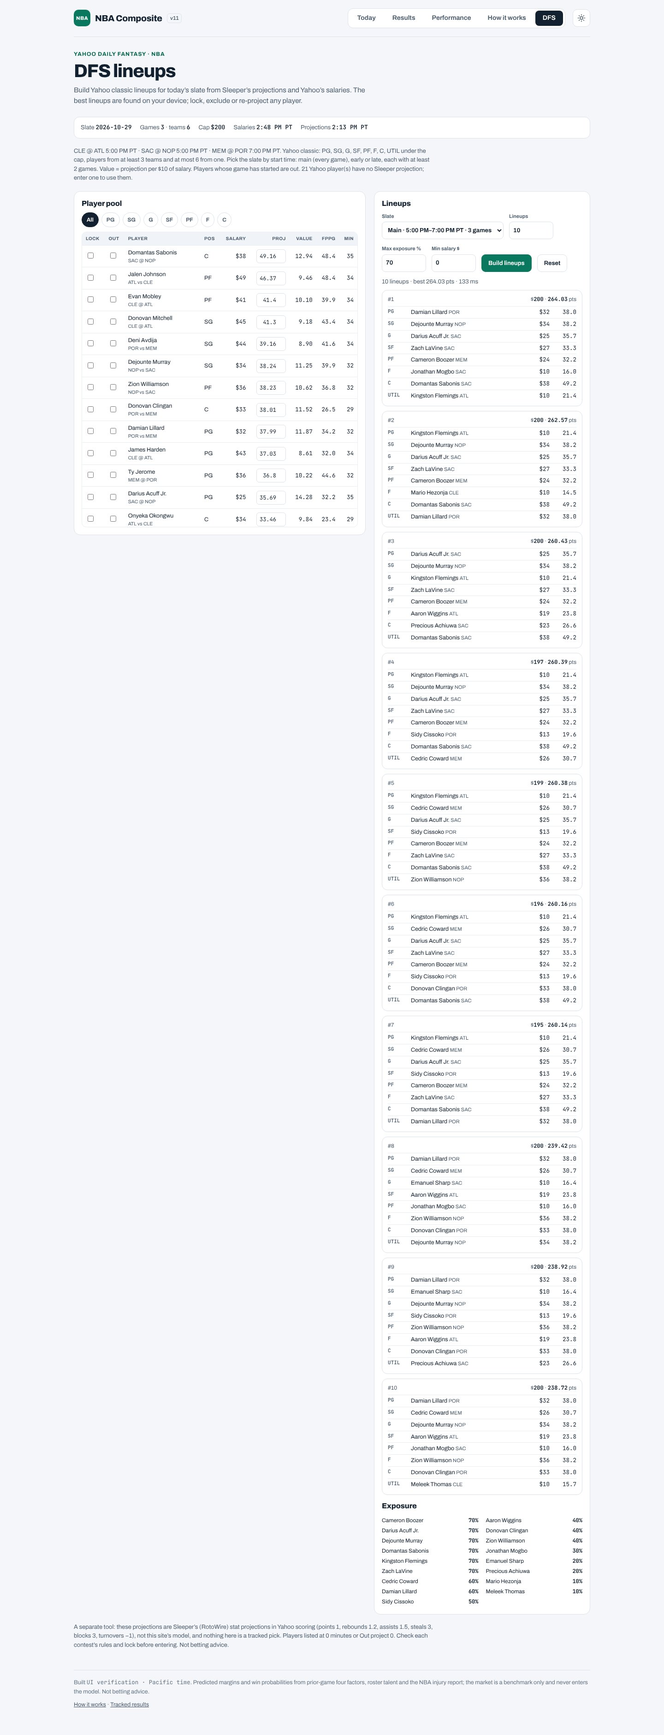
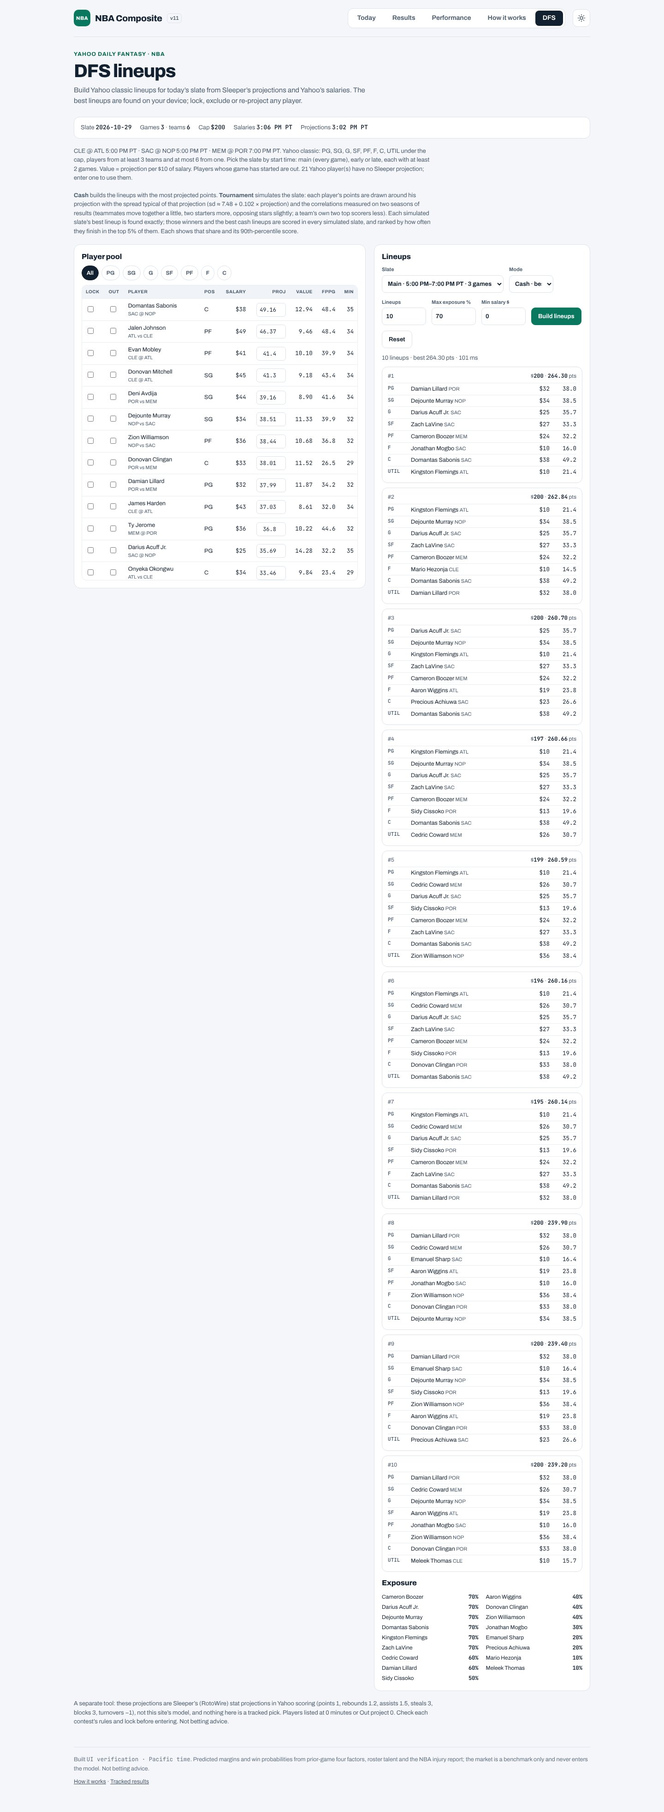
DFS page: tournament mode (correlated variance jitter, solved exactly)
Owner's request: a tournament mode with the measured correlations.

- Each simulated slate draws every player's points around his projection
  with the spread measured on two seasons (sd = 7.48 + 0.102 x projection;
  research/dfs_correlation.py now reports the fit) and a factor model whose
  pair correlations match the measured ones: teammates +0.012, two starters
  +0.08, opposing top-2 scorers +0.038, a team's own two top scorers
  +0.028 (dfs.SIM). Starters = a team's top 5 by Sleeper minutes, stars =
  its top 2 by projection. Seeded, so a slate gives the same lineups.
- The exact solver finds each simulated slate's best lineup. Candidates =
  those winners + the 20 best cash lineups + the cash lineups under the
  exposure cap; ranked by the share of slates in which they finish in the
  candidates' top 5% (exact-best frequency is mostly one-offs: 498 of 500
  winners were distinct), then taken under the exposure cap. Each lineup
  shows that share and its 90th-percentile score.
- Cash stays the default and unchanged; kbest stops as soon as it has N.

Tonight's slate: 500 slates in ~0.8 s; tournament #1 = cash #1 (264.3
proj, top 5% in 25%, p90 306); 3 of 10 lineups differ from cash.

Tests: no variance -> every slate's winner is the cash best and ranks
first at 1.0; seeded; 20,000 draws reproduce each target correlation
within 0.02; lineups legal; ranking ordered. The UI check runs the
tournament mode on the DFS fixture.
[…]

diff --git a/dfs.py b/dfs.py
@@ -56,6 +56,15 @@ YAHOO2BBR = {**market.ESPN2BBR, "PHO": "PHO", "UTH": "UTA", "WAS": "WAS"}
 ET = ZoneInfo("America/New_York")
 # Sleeper statuses that project 0 (GTD / DTD keep their projection).
 OUT_STATUSES = ("out", "ir")
+# Tournament mode (diagnostics/dfs_correlation/RESULTS.txt, 2024-25 and
+# 2025-26 outcomes): a player's sd of Yahoo points is SD_BASE + SD_SLOPE x
+# his projection, and his simulated points share factors whose pair
+# correlations match the measured ones: any two teammates TEAM; two starters
+# TEAM + STARTER; opposing top-2 scorers GAME_STAR; a team's own two top
+# scorers TEAM + STARTER + GAME_STAR - STAR_SPLIT (about +0.03).
+SIM = {"sd_base": 7.48, "sd_slope": 0.102, "team": 0.012, "starter": 0.068,
+       "game_star": 0.038, "star_split": 0.09, "seed": 356}
+STARTERS, STARS = 5, 2   # per team: by Sleeper minutes, by projection
 
 
 def yahoo_points(row):
@@ -209,6 +218,13 @@ def slate(today, yahoo=None, sleeper=None, native=None, now=None):
                             proj=proj, fppg=_num(r.fppg),
                             min=None if minutes is None or not np.isfinite(minutes) else float(minutes),
                             inj=inj, start=r.start_utc, game=r.game_code))
+    # starters (most projected minutes) and stars (highest projections) per team
+    for team in {p["team"] for p in players}:
+        mine = [p for p in players if p["team"] == team and (p["proj"] or 0) > 0]
+        for p in sorted(mine, key=lambda p: -(p["min"] or 0))[:STARTERS]:
+            p["starter"] = True
+        for k, p in enumerate(sorted(mine, key=lambda p: -p["proj"])[:STARS]):
+            p["star"] = k + 1
     snaps = s["snapshot_utc"].astype(str)
     games_out = sorted({(r.game_code, r.away, r.home, r.start_utc) for r in y.itertuples()},
                        key=lambda t: (t[3], t[0]))
@@ -219,7 +235,7 @@ def slate(today, yahoo=None, sleeper=None, native=None, now=None):
                 max_per_team=MAX_PER_TEAM, salaries_utc=max(y["snapshot_utc"]),
                 sleeper_utc=max(snaps) if len(snaps) else None,
                 games=[dict(code=c, away=a, home=h, start=t) for c, a, h, t in games_out],
-                players=players, unmatched=unmatched, scoring=SCORING,
+                players=players, unmatched=unmatched, scoring=SCORING, sim=SIM,
                 built_utc=ledger.fmt_utc(now))
 
 
@@ -309,6 +325,9 @@ def body(data, ui):
             "to use them." if data["unmatched"] else "")
     controls = ("<div class='dfs-controls'>"
                 "<label>Slate<select id='dfs-slate' aria-label='Slate by start time'></select></label>"
+                "<label>Mode<select id='dfs-mode' aria-label='Contest type'><option value='cash'>Cash · best projection</option>"
+                "<option value='gpp'>Tournament · simulated</option></select></label>"
+                "<label id='dfs-sims-l' hidden>Sims<input type='number' id='dfs-sims' min='100' max='2000' step='100' value='500'></label>"
                 "<label>Lineups<input type='number' id='dfs-n' min='1' max='20' value='10'></label>"
                 "<label>Max exposure %<input type='number' id='dfs-exp' min='10' max='100' step='5' value='70'></label>"
                 f"<label>Min salary $<input type='number' id='dfs-min' min='0' max='{data['cap']:g}' value='0'></label>"
@@ -330,6 +349,14 @@ def body(data, ui):
             f"{MAX_PER_TEAM} from one. Pick the slate by start time: main (every game), early or "
             f"late, each with at least 2 games. Value = projection per $10 of salary. Players "
             f"whose game has started are out.{miss}</p>"
+            "<p class='public-note'><b>Cash</b> builds the lineups with the most projected points. "
+            "<b>Tournament</b> simulates the slate: each player’s points are drawn around his projection "
+            f"with the spread typical of that projection (sd ≈ {SIM['sd_base']:g} + {SIM['sd_slope']:g} × "
+            "projection) and the correlations measured on two seasons of results (teammates move together "
+            "a little, two starters more, opposing stars slightly; a team’s own two top scorers less). "
+            "Each simulated slate’s best lineup is found exactly; those winners and the best cash "
+            "lineups are scored in every simulated slate, and ranked by how often they finish in the top "
+            "5% of them. Each shows that share and its 90th-percentile score.</p>"
             "<noscript><p class='public-note'>The optimizer needs JavaScript.</p></noscript>"
             "<div class='dfs-grid'>" + pool + out + "</div>" + note
             + f"<script type='application/json' id='dfs-data'>{payload}</script>"
@@ -395,13 +422,51 @@ Heap.prototype.pop=function(){var a=this.a,top=a[0],last=a.pop();if(a.length){a[
 // its parent's lineup and forces those before it. accept(sol) keeps one.
 function kbest(P,cap,minSal,lock,N,accept,limit){var h=new Heap(),out=[],seen=0,root=solve(P,cap,minSal,lock,{});
  if(!root)return {lineups:out,seen:0};h.push({fin:lock,fout:{},sol:root});
- while(h.a.length&&out.length<N&&seen<limit){var nd=h.pop();seen++;if(accept(nd.sol))out.push(nd.sol);
+ while(h.a.length&&out.length<N&&seen<limit){var nd=h.pop();seen++;if(accept(nd.sol)){out.push(nd.sol);if(out.length>=N)break;}
   var fin=Object.assign({},nd.fin);nd.sol.ids.forEach(function(id){if(nd.fin[id])return;var fo=Object.assign({},nd.fout);fo[id]=1;
    var s=solve(P,cap,minSal,fin,fo);if(s)h.push({fin:Object.assign({},fin),fout:fo,sol:s});fin[id]=1;});}
  return {lineups:out,seen:seen};}
 function teamsOk(ids,team,minTeams,maxPer){var c={};ids.forEach(function(i){var t=team[i];c[t]=(c[t]||0)+1;});var ks=Object.keys(c);
  return ks.length>=minTeams&&ks.every(function(k){return c[k]<=maxPer;});}
-return {solve:solve,kbest:kbest,teamsOk:teamsOk};
+// Tournament mode. One simulated slate: each player's points are his
+// projection plus sd x z, floored at 0, where z = sqrt(team) T[team]
+// + sqrt(starter) U[team] (starters) + sqrt(game_star) G[game] (top-2
+// scorers) +/- sqrt(star_split) Q[team] (+ for the top scorer, - for the
+// second) + an independent remainder: a factor model, so every draw is a
+// valid correlated normal.
+function rng(seed){var a=seed>>>0;return function(){a=(a+0x6D2B79F5)>>>0;var t=a;t=Math.imul(t^(t>>>15),t|1);
+ t^=t+Math.imul(t^(t>>>7),t|61);return ((t^(t>>>14))>>>0)/4294967296;};}
+function gauss(r){var u=0,v=0;while(u===0)u=r();while(v===0)v=r();return Math.sqrt(-2*Math.log(u))*Math.cos(2*Math.PI*v);}
+function draw(P,M,r){var f={},out=new Float64Array(P.length);function F(k){if(!(k in f))f[k]=gauss(r);return f[k];}
+ for(var i=0;i<P.length;i++){var p=P[i],w=M.team,z=Math.sqrt(M.team)*F('T'+p.team);
+  if(p.starter){z+=Math.sqrt(M.starter)*F('U'+p.team);w+=M.starter;}
+  if(p.star){z+=Math.sqrt(M.game_star)*F('G'+p.game)+(p.star===1?1:-1)*Math.sqrt(M.star_split)*F('Q'+p.team);w+=M.game_star+M.star_split;}
+  z+=Math.sqrt(Math.max(0,1-w))*gauss(r);out[i]=Math.max(0,p.v+(M.sd_base+M.sd_slope*p.v)*z);}
+ return out;}
+// S simulated slates, each solved exactly (ok(ids): the team rules). Returns
+// the distinct winning lineups and every draw, so any lineup can be scored
+// in each slate (rank).
+function simulate(P,cap,minSal,lock,M,S,seed,ok){var r=rng(seed),cnt={},ids={},vals=new Float64Array(S*P.length);
+ for(var s=0;s<S;s++){var x=draw(P,M,r),Q=P.map(function(p,i){return {id:p.id,pos:p.pos,sal:p.sal,v:x[i]};});vals.set(x,s*P.length);
+  var b=kbest(Q,cap,minSal,lock,1,function(sol){return ok(sol.ids);},200).lineups[0];if(!b)continue;
+  var key=b.ids.slice().sort().join();cnt[key]=(cnt[key]||0)+1;ids[key]=b.ids;}
+ var idx={};P.forEach(function(p,i){idx[p.id]=i;});
+ var mean=function(l){return l.reduce(function(t,id){return t+P[idx[id]].v;},0);};
+ var cands=Object.keys(cnt).map(function(k){return {ids:ids[k],n:cnt[k],v:mean(ids[k]),sal:ids[k].reduce(function(t,id){return t+P[idx[id]].sal;},0)};})
+  .sort(function(a,b){return b.n-a.n||b.v-a.v;});
+ function scores(l){var out=new Float64Array(S);for(var s=0;s<S;s++){var t=0;for(var j=0;j<l.length;j++)t+=vals[s*P.length+idx[l[j]]];out[s]=t;}return out;}
+ return {cands:cands,sims:S,scores:scores};}
+// Tournament ranking: in each simulated slate, the candidates (the winners
+// plus any added) scoring in the top `frac` of all candidates; a lineup's
+// share of slates in that group (c.top) and its 90th-percentile score
+// (c.p90). Smoother than "how often exactly best", which is mostly one-offs.
+function rank(cands,res,frac){var m=cands.length,k=Math.max(1,Math.ceil(frac*m)),S=res.sims,hits=new Int32Array(m),
+  sc=cands.map(function(c){return res.scores(c.ids);}),row=new Float64Array(m);
+ for(var s=0;s<S;s++){for(var c=0;c<m;c++)row[c]=sc[c][s];var thr=Array.from(row).sort(function(a,b){return b-a;})[k-1];
+  for(c=0;c<m;c++)if(row[c]>=thr)hits[c]++;}
+ cands.forEach(function(c,i){c.top=hits[i]/S;var srt=Array.from(sc[i]).sort(function(a,b){return a-b;});c.p90=srt[Math.floor(.9*(S-1))];});
+ return cands.sort(function(a,b){return b.top-a.top||b.v-a.v;});}
+return {solve:solve,kbest:kbest,teamsOk:teamsOk,rng:rng,draw:draw,simulate:simulate,rank:rank};
 })();
 """
 
@@ -428,7 +493,7 @@ function esc(s){return String(s).replace(/[&<>"']/g,function(c){return {'&':'&am
 function proj(p){return st.proj[p.id]!==undefined?st.proj[p.id]:p.proj;}
 function started(p){return Date.parse(p.start)<=Date.now();}
 function pool(){return D.players.filter(function(p){var v=proj(p);return inSlate(p)&&!st.out[p.id]&&!started(p)&&v!==null&&v!==undefined&&(v>0||st.lock[p.id]);})
- .map(function(p){return {id:p.id,pos:p.pos,sal:p.sal,v:proj(p)};});}
+ .map(function(p){return {id:p.id,pos:p.pos,sal:p.sal,v:proj(p),team:p.team,game:p.game,starter:!!p.starter,star:p.star||0};});}
 function slots(ids,byId){var ps=ids.map(function(i){return byId[i];}),used={},at={};
  function take(ok){for(var i=0;i<ps.length;i++){if(!used[i]&&ok(ps[i])){used[i]=1;return ps[i];}}return null;}
  [['PG',function(p){return p.pos==='PG';}],['SG',function(p){return p.pos==='SG';}],['SF',function(p){return p.pos==='SF';}],
@@ -437,21 +502,35 @@ function slots(ids,byId){var ps=ids.map(function(i){return byId[i];}),used={},at
  return D.slots.map(function(s){return [s,at[s]];});}
 function run(){var btn=$('dfs-go');btn.disabled=true;$('dfs-msg').textContent='Building lineups…';
  setTimeout(function(){try{build();}catch(e){$('dfs-msg').textContent='The optimizer failed: '+e.message;}btn.disabled=false;},20);}
-// N lineups, each the best legal one not yet built from the players still
-// under their exposure cap (locked players are exempt): a capped player
-// leaves the pool, so the search never wades through lineups built on him.
-function build(){var all=pool(),byId={},team={};D.players.forEach(function(p){byId[p.id]=p;team[p.id]=p.team;});
- var N=Math.max(1,Math.min(20,+$('dfs-n').value||10)),exp=Math.max(10,Math.min(100,+$('dfs-exp').value||100)),
-  minSal=Math.max(0,+$('dfs-min').value||0),capN=Math.max(1,Math.floor(N*exp/100+1e-9)),cnt={},lock={},made={},L=[];
- Object.keys(st.lock).forEach(function(id){if(st.lock[id]&&byId[id]&&!started(byId[id])&&inSlate(byId[id]))lock[id]=1;});
- var t0=performance.now();
+// Cash: N lineups, each the best legal one not yet built from the players
+// still under their exposure cap (locked players are exempt): a capped
+// player leaves the pool, so the search never wades through lineups on him.
+function cash(all,team,N,capN,minSal,lock){var cnt={},made={},L=[];
  while(L.length<N){var P=all.filter(function(p){return lock[p.id]||(cnt[p.id]||0)<capN;});
   var r=DFS.kbest(P,D.cap,minSal,lock,1,function(sol){return DFS.teamsOk(sol.ids,team,D.min_teams,D.max_per_team)&&!made[sol.ids.slice().sort().join()];},400);
   if(!r.lineups.length)break;var l=r.lineups[0];made[l.ids.slice().sort().join()]=1;L.push(l);l.ids.forEach(function(i){cnt[i]=(cnt[i]||0)+1;});}
- var el=$('dfs-out');
+ return {L:L,cnt:cnt};}
+// Tournament: candidates are the simulated slates' winners, the 20 best cash
+// lineups and the cash lineups under the exposure cap (strong lineups
+// without the capped players), ranked by their share of slates in the
+// candidates' top 5%, kept while every non-locked player stays under the cap.
+function gpp(all,team,N,capN,minSal,lock){var S=Math.max(100,Math.min(2000,+$('dfs-sims').value||500)),cnt={},L=[];
+ var ok=function(ids){return DFS.teamsOk(ids,team,D.min_teams,D.max_per_team);};
+ var res=DFS.simulate(all,D.cap,minSal,lock,D.sim,S,D.sim.seed,ok),seen={},cands=[];
+ res.cands.concat(DFS.kbest(all,D.cap,minSal,lock,20,function(sol){return ok(sol.ids);},400).lineups,
+  cash(all,team,N,capN,minSal,lock).L).forEach(function(c){
+  var k=c.ids.slice().sort().join();if(!seen[k]){seen[k]=1;cands.push({ids:c.ids,v:c.v,sal:c.sal});}});
+ DFS.rank(cands,res,.05).forEach(function(c){if(L.length>=N||!c.ids.every(function(i){return lock[i]||(cnt[i]||0)<capN;}))return;
+  L.push(c);c.ids.forEach(function(i){cnt[i]=(cnt[i]||0)+1;});});
+ return {L:L,cnt:cnt,note:S+' simulated slates · '+cands.length+' candidate lineups'};}
+function build(){var all=pool(),byId={},team={};D.players.forEach(function(p){byId[p.id]=p;team[p.id]=p.team;});
+ var N=Math.max(1,Math.min(20,+$('dfs-n').value||10)),exp=Math.max(10,Math.min(100,+$('dfs-exp').value||100)),
+  minSal=Math.max(0,+$('dfs-min').value||0),capN=Math.max(1,Math.floor(N*exp/100+1e-9)),lock={},t0=performance.now();
+ Object.keys(st.lock).forEach(function(id){if(st.lock[id]&&byId[id]&&!started(byId[id])&&inSlate(byId[id]))lock[id]=1;});
+ var R=($('dfs-mode').value==='gpp'?gpp:cash)(all,team,N,capN,minSal,lock),L=R.L,cnt=R.cnt,el=$('dfs-out');
  if(!L.length){el.innerHTML='';$('dfs-exposure').innerHTML='';$('dfs-msg').textContent='No legal lineup: check the locks, exclusions and minimum salary.';return;}
- $('dfs-msg').textContent=L.length+' lineup'+(L.length>1?'s':'')+' · best '+L[0].v.toFixed(2)+' pts'+(L.length<N?' · fewer than asked under these caps':'')+' · '+Math.round(performance.now()-t0)+' ms';
- el.innerHTML=L.map(function(l,i){return "<article class='dfs-lineup'><header><span>#"+(i+1)+"</span><span>$<b>"+l.sal+"</b> · <b>"+l.v.toFixed(2)+"</b> pts</span></header><ol>"+
+ $('dfs-msg').textContent=L.length+' lineup'+(L.length>1?'s':'')+(R.note?' · '+R.note:' · best '+L[0].v.toFixed(2)+' pts')+(L.length<N?' · fewer than asked under these caps':'')+' · '+Math.round(performance.now()-t0)+' ms';
+ el.innerHTML=L.map(function(l,i){return "<article class='dfs-lineup'><header><span>#"+(i+1)+(l.top!==undefined?" · top 5% in <b>"+(100*l.top).toFixed(0)+"%</b> · p90 <b>"+l.p90.toFixed(1)+"</b>":"")+"</span><span>$<b>"+l.sal+"</b> · <b>"+l.v.toFixed(2)+"</b> pts</span></header><ol>"+
   slots(l.ids,byId).map(function(x){var p=x[1];return "<li><span>"+x[0]+"</span><span>"+esc(p.name)+" <em>"+esc(p.team)+"</em></span><span class='n'>$"+p.sal+"</span><span class='n'>"+proj(p).toFixed(1)+"</span></li>";}).join('')+"</ol></article>";}).join('');
  var ex=Object.keys(cnt).sort(function(a,b){return cnt[b]-cnt[a]||byId[a].name.localeCompare(byId[b].name);});
  $('dfs-exposure').innerHTML=ex.map(function(id){return "<li><span>"+esc(byId[id].name)+"</span><b class='mono'>"+Math.round(100*cnt[id]/L.length)+"%</b></li>";}).join('');}
@@ -473,6 +552,7 @@ var SL=slates(),sel=$('dfs-slate');st.slate=SL[0]||null;
 sel.innerHTML=SL.map(function(o){return "<option value='"+o.key+"'>"+esc(o.label)+"</option>";}).join('')||"<option>No slate with 2+ games</option>";
 sel.disabled=SL.length<2;
 sel.addEventListener('change',function(){st.slate=SL.filter(function(o){return o.key===sel.value;})[0]||null;draw();run();});
+$('dfs-mode').addEventListener('change',function(){$('dfs-sims-l').hidden=this.value!=='gpp';run();});
 $('dfs-go').addEventListener('click',run);
 $('dfs-reset').addEventListener('click',function(){st.lock={};st.out={};st.proj={};draw();run();});
 draw();run();

diff --git a/tests/test_dfs.py b/tests/test_dfs.py
@@ -204,3 +204,93 @@ def test_validation_checks_the_yahoo_snapshot(tmp_path):
     bad.to_csv(path, index=False)
     assert any("salary" in e for e in v.check_yahoo(str(path)))
     assert v.check_yahoo(str(tmp_path / "missing.csv")) == []
+
+
+# ------------------------------------------------------- tournament mode ---
+def _node_js(body, payload):
+    script = dfs.SOLVER_JS + "\nvar I=JSON.parse(require('fs').readFileSync(0,'utf8'));\n" + body
+    res = subprocess.run([NODE, "-e", script], input=json.dumps(payload), capture_output=True,
+                         text=True, timeout=180, check=True)
+    return json.loads(res.stdout)
+
+
+def _sim_pool(seed=5):
+    rng = np.random.default_rng(seed)
+    pool = []
+    for g, teams in enumerate((("A", "B"), ("C", "D"))):
+        for t in teams:
+            for k, pos in enumerate(["PG", "SG", "SF", "PF", "C", "PG", "SF", "C"]):
+                pool.append(dict(id=f"{t}{k}", pos=pos, sal=int(rng.integers(10, 40)),
+                                 v=round(float(rng.uniform(15, 45)), 2), team=t, game=f"g{g}",
+                                 starter=k < 5, star=(k + 1) if k < 2 else 0))
+    return pool
+
+
+@pytest.mark.skipif(NODE is None, reason="node is not installed")
+def test_tournament_without_variance_is_the_cash_best_and_is_seeded():
+    pool = _sim_pool()
+    flat = dict(dfs.SIM, sd_base=0.0, sd_slope=0.0)
+    out = _node_js("""
+var team={};I.pool.forEach(function(p){team[p.id]=p.team;});var ok=function(ids){return DFS.teamsOk(ids,team,3,6);};
+var best=DFS.kbest(I.pool,200,0,{},1,function(s){return ok(s.ids);},200).lineups[0];
+var flat=DFS.simulate(I.pool,200,0,{},I.flat,50,7,ok),a=DFS.simulate(I.pool,200,0,{},I.sim,200,7,ok),b=DFS.simulate(I.pool,200,0,{},I.sim,200,7,ok);
+process.stdout.write(JSON.stringify({best:best.ids.slice().sort(),flat:flat.cands.map(function(c){return [c.ids.slice().sort(),c.n];}),
+ a:a.cands.map(function(c){return c.n;}),b:b.cands.map(function(c){return c.n;}),na:a.cands.length,
+ legal:a.cands.every(function(c){return ok(c.ids)&&c.sal<=200&&new Set(c.ids).size===8;})}));""",
+        dict(pool=pool, flat=flat, sim=dfs.SIM))
+    assert out["flat"] == [[out["best"], 50]]            # every simulated slate: the cash best
+    assert out["a"] == out["b"] and out["na"] > 5         # seeded, and it diversifies
+    assert sum(out["a"]) == 200 and out["legal"]
+
+
+@pytest.mark.skipif(NODE is None, reason="node is not installed")
+def test_simulated_points_carry_the_measured_correlations():
+    pool = [dict(p, v=200.0) for p in _sim_pool()]       # far from the floor at 0
+    zs = _node_js("""
+var r=DFS.rng(11),Z=[];for(var s=0;s<20000;s++){var x=DFS.draw(I.pool,I.sim,r);
+ Z.push(Array.from(x).map(function(v,i){var p=I.pool[i];return (v-p.v)/(I.sim.sd_base+I.sim.sd_slope*p.v);}));}
+process.stdout.write(JSON.stringify(Z));""", dict(pool=pool, sim=dfs.SIM))
+    z = np.array(zs)
+    c = np.corrcoef(z.T)
+    ix = {p["id"]: i for i, p in enumerate(pool)}
+    m = dfs.SIM
+    pairs = {("A2", "A3"): m["team"] + m["starter"],               # two starters
+             ("A5", "A6"): m["team"],                              # two bench players
+             ("A0", "A1"): m["team"] + m["starter"] + m["game_star"] - m["star_split"],  # own stars
+             ("A0", "B0"): m["game_star"], ("A0", "B1"): m["game_star"],             # opposing stars
+             ("A2", "B2"): 0.0, ("A0", "C0"): 0.0}                 # opponents; other game
+    for (a, b), want in pairs.items():
+        assert c[ix[a], ix[b]] == pytest.approx(want, abs=0.02), (a, b)
+    assert np.allclose(z.std(0), 1, atol=0.03)
+
+
+@pytest.mark.skipif(NODE is None, reason="node is not installed")
+def test_sim_model_and_flags_reach_the_page():
+    yahoo = pd.DataFrame(dfs.parse_feed(_feed([_yp("p1", "Zion Williamson", "NO", "PF", 36),
+                                               _yp("p2", "Other Guy", "NO", "C", 20)]), now=NOW),
+                         columns=dfs.YAHOO_COLUMNS).astype(str)
+    line = dict(minutes="32", pts="20", reb="5", ast="3", stl="1", blk="1", to="2", tpm="1")
+    sl = _sleeper([dict(kind="pre", team="NOP", sleeper_id="1", name="Zion Williamson", **line),
+                   dict(kind="pre", team="NOP", sleeper_id="2", name="Other Guy", **dict(line, pts="5"))])
+    d = dfs.slate("2026-10-29", yahoo=yahoo, sleeper=sl, native=_native(), now=NOW)
+    by = {p["name"]: p for p in d["players"]}
+    assert d["sim"] == dfs.SIM and by["Zion Williamson"]["star"] == 1 and by["Other Guy"]["star"] == 2
+    assert by["Zion Williamson"]["starter"] and by["Other Guy"]["starter"]
+
+
+@pytest.mark.skipif(NODE is None, reason="node is not installed")
+def test_tournament_rank_puts_the_lineups_that_often_score_highest_first():
+    pool = _sim_pool()
+    flat = dict(dfs.SIM, sd_base=0.0, sd_slope=0.0)
+    out = _node_js("""
+var team={};I.pool.forEach(function(p){team[p.id]=p.team;});var ok=function(ids){return DFS.teamsOk(ids,team,3,6);};
+var top=DFS.kbest(I.pool,200,0,{},20,function(s){return ok(s.ids);},400).lineups;
+var flat=DFS.rank(top.map(function(c){return {ids:c.ids,v:c.v,sal:c.sal};}),DFS.simulate(I.pool,200,0,{},I.flat,40,3,ok),.05);
+var sim=DFS.rank(top.map(function(c){return {ids:c.ids,v:c.v,sal:c.sal};}),DFS.simulate(I.pool,200,0,{},I.sim,300,3,ok),.25);
+process.stdout.write(JSON.stringify({best:top[0].ids.slice().sort(),flat:flat.map(function(c){return [c.ids.slice().sort(),c.top];}),
+ sim:sim.map(function(c){return [c.top,c.p90,c.v];})}));""", dict(pool=pool, flat=flat, sim=dfs.SIM))
+    assert out["flat"][0] == [out["best"], 1.0]          # no variance: the best always tops
+    assert all(t == 0.0 for _, t in out["flat"][1:])
+    tops = [t for t, _, _ in out["sim"]]
+    assert tops == sorted(tops, reverse=True) and 0 < tops[0] <= 1
+    assert all(p90 >= v for _, p90, v in out["sim"])      # the 90th percentile is above the mean

diff --git a/research/dfs_correlation.py b/research/dfs_correlation.py
@@ -64,6 +64,10 @@ READING = """== Reading (2026-10-29 run; the tables above are the evidence)
    head-to-head and cash play maximize the mean; correlation is a tie-break
    for tournaments.
 
+6. Spread: a rotation player's sd of Yahoo points is about 7.5 + 0.10 x his
+   mean in both seasons (9.5 points at a 20-point mean, 11.6 at 40).
+   The DFS page's tournament mode uses it with a factor model matching 1-3.
+
 Heuristics this supports (tournaments): a mild preference for two or three
 starters from one team in a game expected to be close; opposing stars from
 such a game; avoid two centres from one team; discount starters in games
@@ -208,6 +212,18 @@ def context(df, rng, label):
     return out
 
 
+def spread(df, label):
+    """A rotation player's game-to-game sd of Yahoo points against his season
+    mean, least squares across players: the tournament mode's sd model."""
+    g = df[df["rotation"]].groupby("player")["fp"].agg(["mean", "std"])
+    A = np.vstack([np.ones(len(g)), g["mean"]]).T
+    (a, b), *_ = np.linalg.lstsq(A, g["std"].to_numpy(), rcond=None)
+    pred = A @ np.array([a, b])
+    r2 = 1 - ((g["std"] - pred) ** 2).sum() / ((g["std"] - g["std"].mean()) ** 2).sum()
+    return [f"-- {label}: sd of a player's Yahoo points = {a:.2f} + {b:.3f} x his mean "
+            f"(R2 {r2:.2f}, {len(g)} players; at 20 / 40 points: {a + 20 * b:.1f} / {a + 40 * b:.1f})"]
+
+
 def main(argv=None):
     ap = argparse.ArgumentParser()
     ap.add_argument("--seasons", type=int, nargs="+", default=[2025, 2026])
@@ -225,11 +241,14 @@ def main(argv=None):
                       f"C {rot.pos.eq('C').mean():.0%})")
         p = pairs(df)
         allp.append(p.assign(season=s))
-        report += table(p, rng, f"{s - 1}-{s % 100:02d}") + context(df, rng, f"{s - 1}-{s % 100:02d}") + [""]
+        report += (table(p, rng, f"{s - 1}-{s % 100:02d}") + context(df, rng, f"{s - 1}-{s % 100:02d}")
+                   + spread(df, f"{s - 1}-{s % 100:02d}") + [""])
     if len(allp) > 1:
         p = pd.concat(allp, ignore_index=True)
         report += ["== Both seasons pooled (labelled; the seasons above stand on their own)"]
-        report += table(p, rng, "pooled") + context(pd.concat(frames.values()), rng, "pooled")
+        both = pd.concat(frames.values())
+        report += (table(p, rng, "pooled") + context(both, rng, "pooled")
+                   + spread(both.assign(player=both["player"] + "|" + both["season"].astype(str)), "pooled"))
     report += ["", READING]
     OUT.mkdir(parents=True, exist_ok=True)
     (OUT / "RESULTS.txt").write_text("\n".join(report) + "\n")

diff --git a/research/check_public_ui.py b/research/check_public_ui.py
@@ -171,8 +171,14 @@ def main():
                         used = set(page.locator('.dfs-lineup li em').all_inner_texts())
                         assert used and used <= teams and len(used) >= 3, (key, used)
                         assert page.locator('.dfs-lineup').count() == 10, key
+                    page.select_option('#dfs-slate', 'main')
+                    page.select_option('#dfs-mode', 'gpp')
+                    assert page.locator('#dfs-sims').is_visible()
+                    page.wait_for_function("/simulated slates/.test(document.getElementById('dfs-msg').textContent)")
+                    assert page.locator('.dfs-lineup').count() == 10
+                    assert page.locator('.dfs-lineup header', has_text='top 5% in').count() == 10
                     page.screenshot(path=str(out/f'{device}-fixture-dfs.jpg'),full_page=True,type='jpeg',quality=85)
-                    checks.append(f'{device}: DFS fixture · Main, Early and Late slates each build 10 lineups from their own games')
+                    checks.append(f'{device}: DFS fixture · Main, Early and Late slates each build 10 lineups from their own games; tournament mode builds 10 simulated lineups')
                 assert not errors,errors
                 # Live-score overlay may update status/score only, never a selection.
                 page.unroute_all()

diff --git a/README.md b/README.md
@@ -9,7 +9,7 @@ Actions: <https://dave356w.github.io/nba-matchups/>.
 | Results | Every tracked win, loss, push and pending pick; filters for test, stage and season. |
 | Performance | Spread (H5·3), value favourite (H2·F·5), large probability gap (H4) and total (OU), each with separate games 1–9 and games 10+ records per season, uncertainty and same-game benchmarks. No combined portfolio return. |
 | How it works | Plain-language forecast, rule, timing and results definitions. |
-| DFS lineups | A Yahoo classic-contest lineup optimizer for the day's slate: Yahoo salaries with Sleeper's projections in Yahoo scoring; the best lineups are found in the browser for the main, early or late slate by start time (lock, exclude, re-project, exposure caps). A separate tool: no forecast, tracked pick or record. |
+| DFS lineups | A Yahoo classic-contest lineup optimizer for the day's slate: Yahoo salaries with Sleeper's projections in Yahoo scoring; the best lineups are found in the browser for the main, early or late slate by start time (lock, exclude, re-project, exposure caps). Cash mode maximizes projected points; tournament mode simulates the slate with each player's measured spread and correlations (`diagnostics/dfs_correlation/`), solves every simulated slate exactly and ranks lineups by how often they finish in the top 5%. A separate tool: no forecast, tracked pick or record. |
 
 The public records restarted with the v11 model family on the 2026-10-29
 slate and read only the v11-family rows at the 5 h lock (CLAUDE.md,
